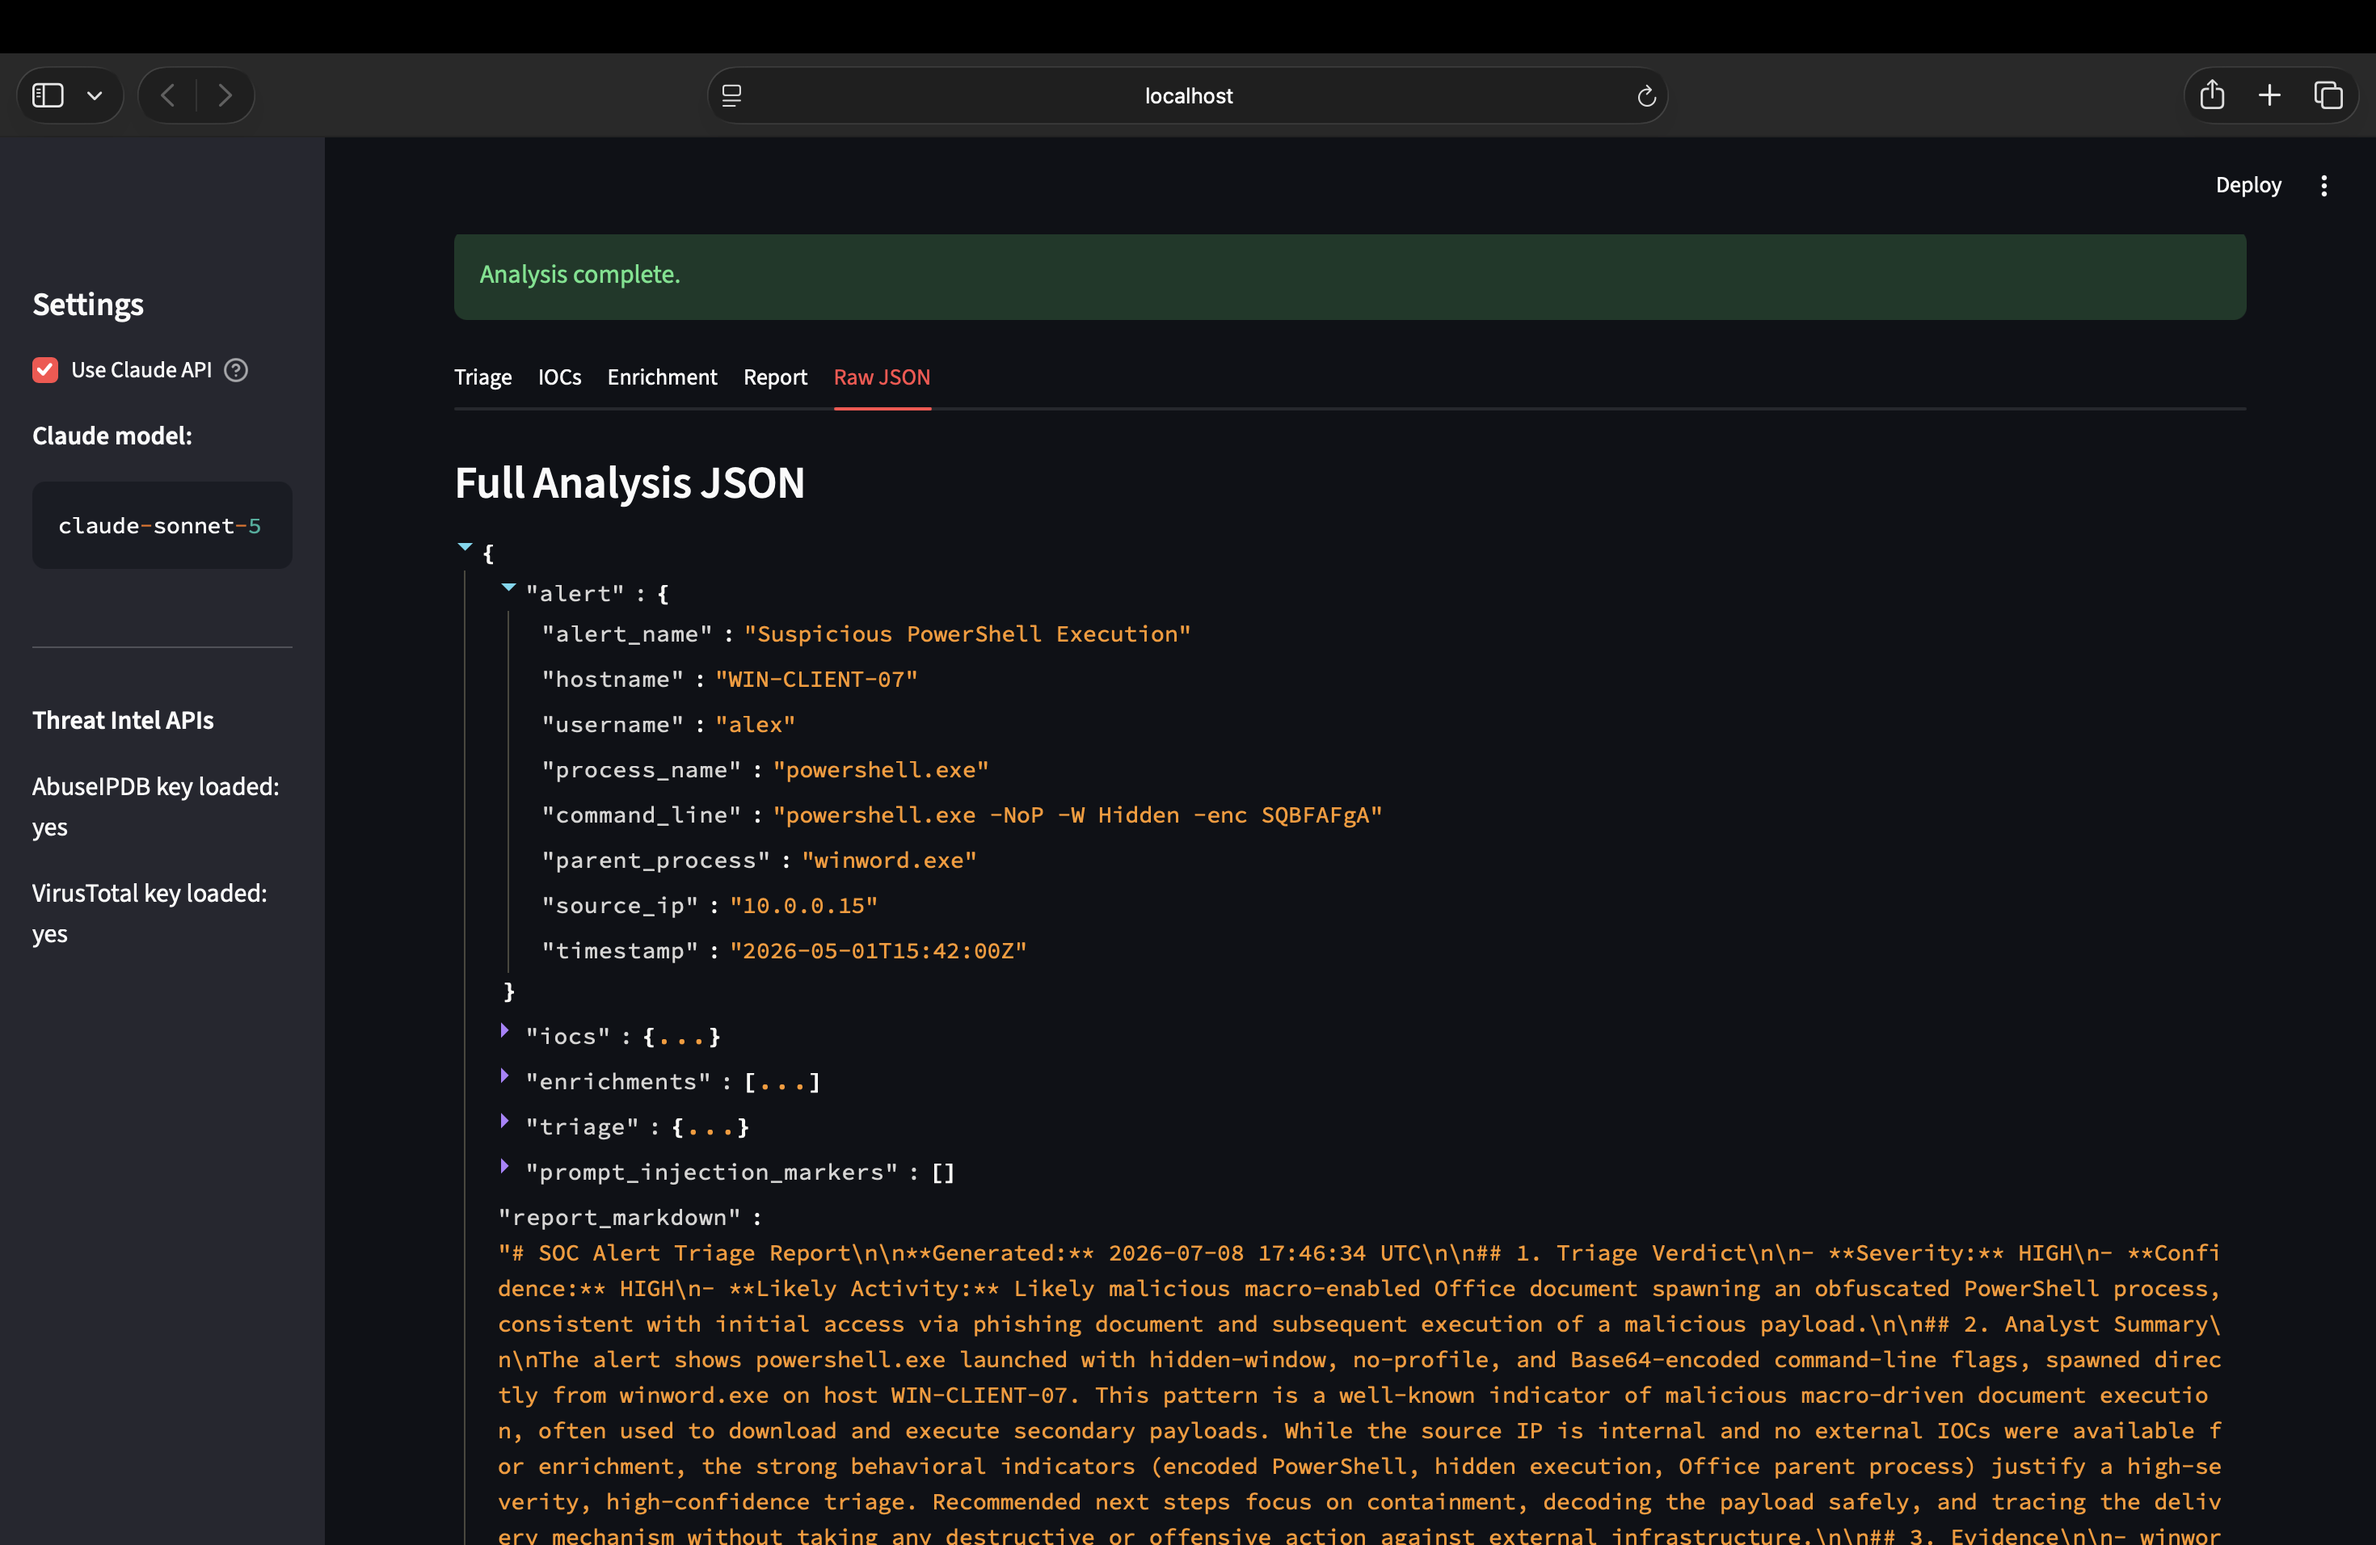
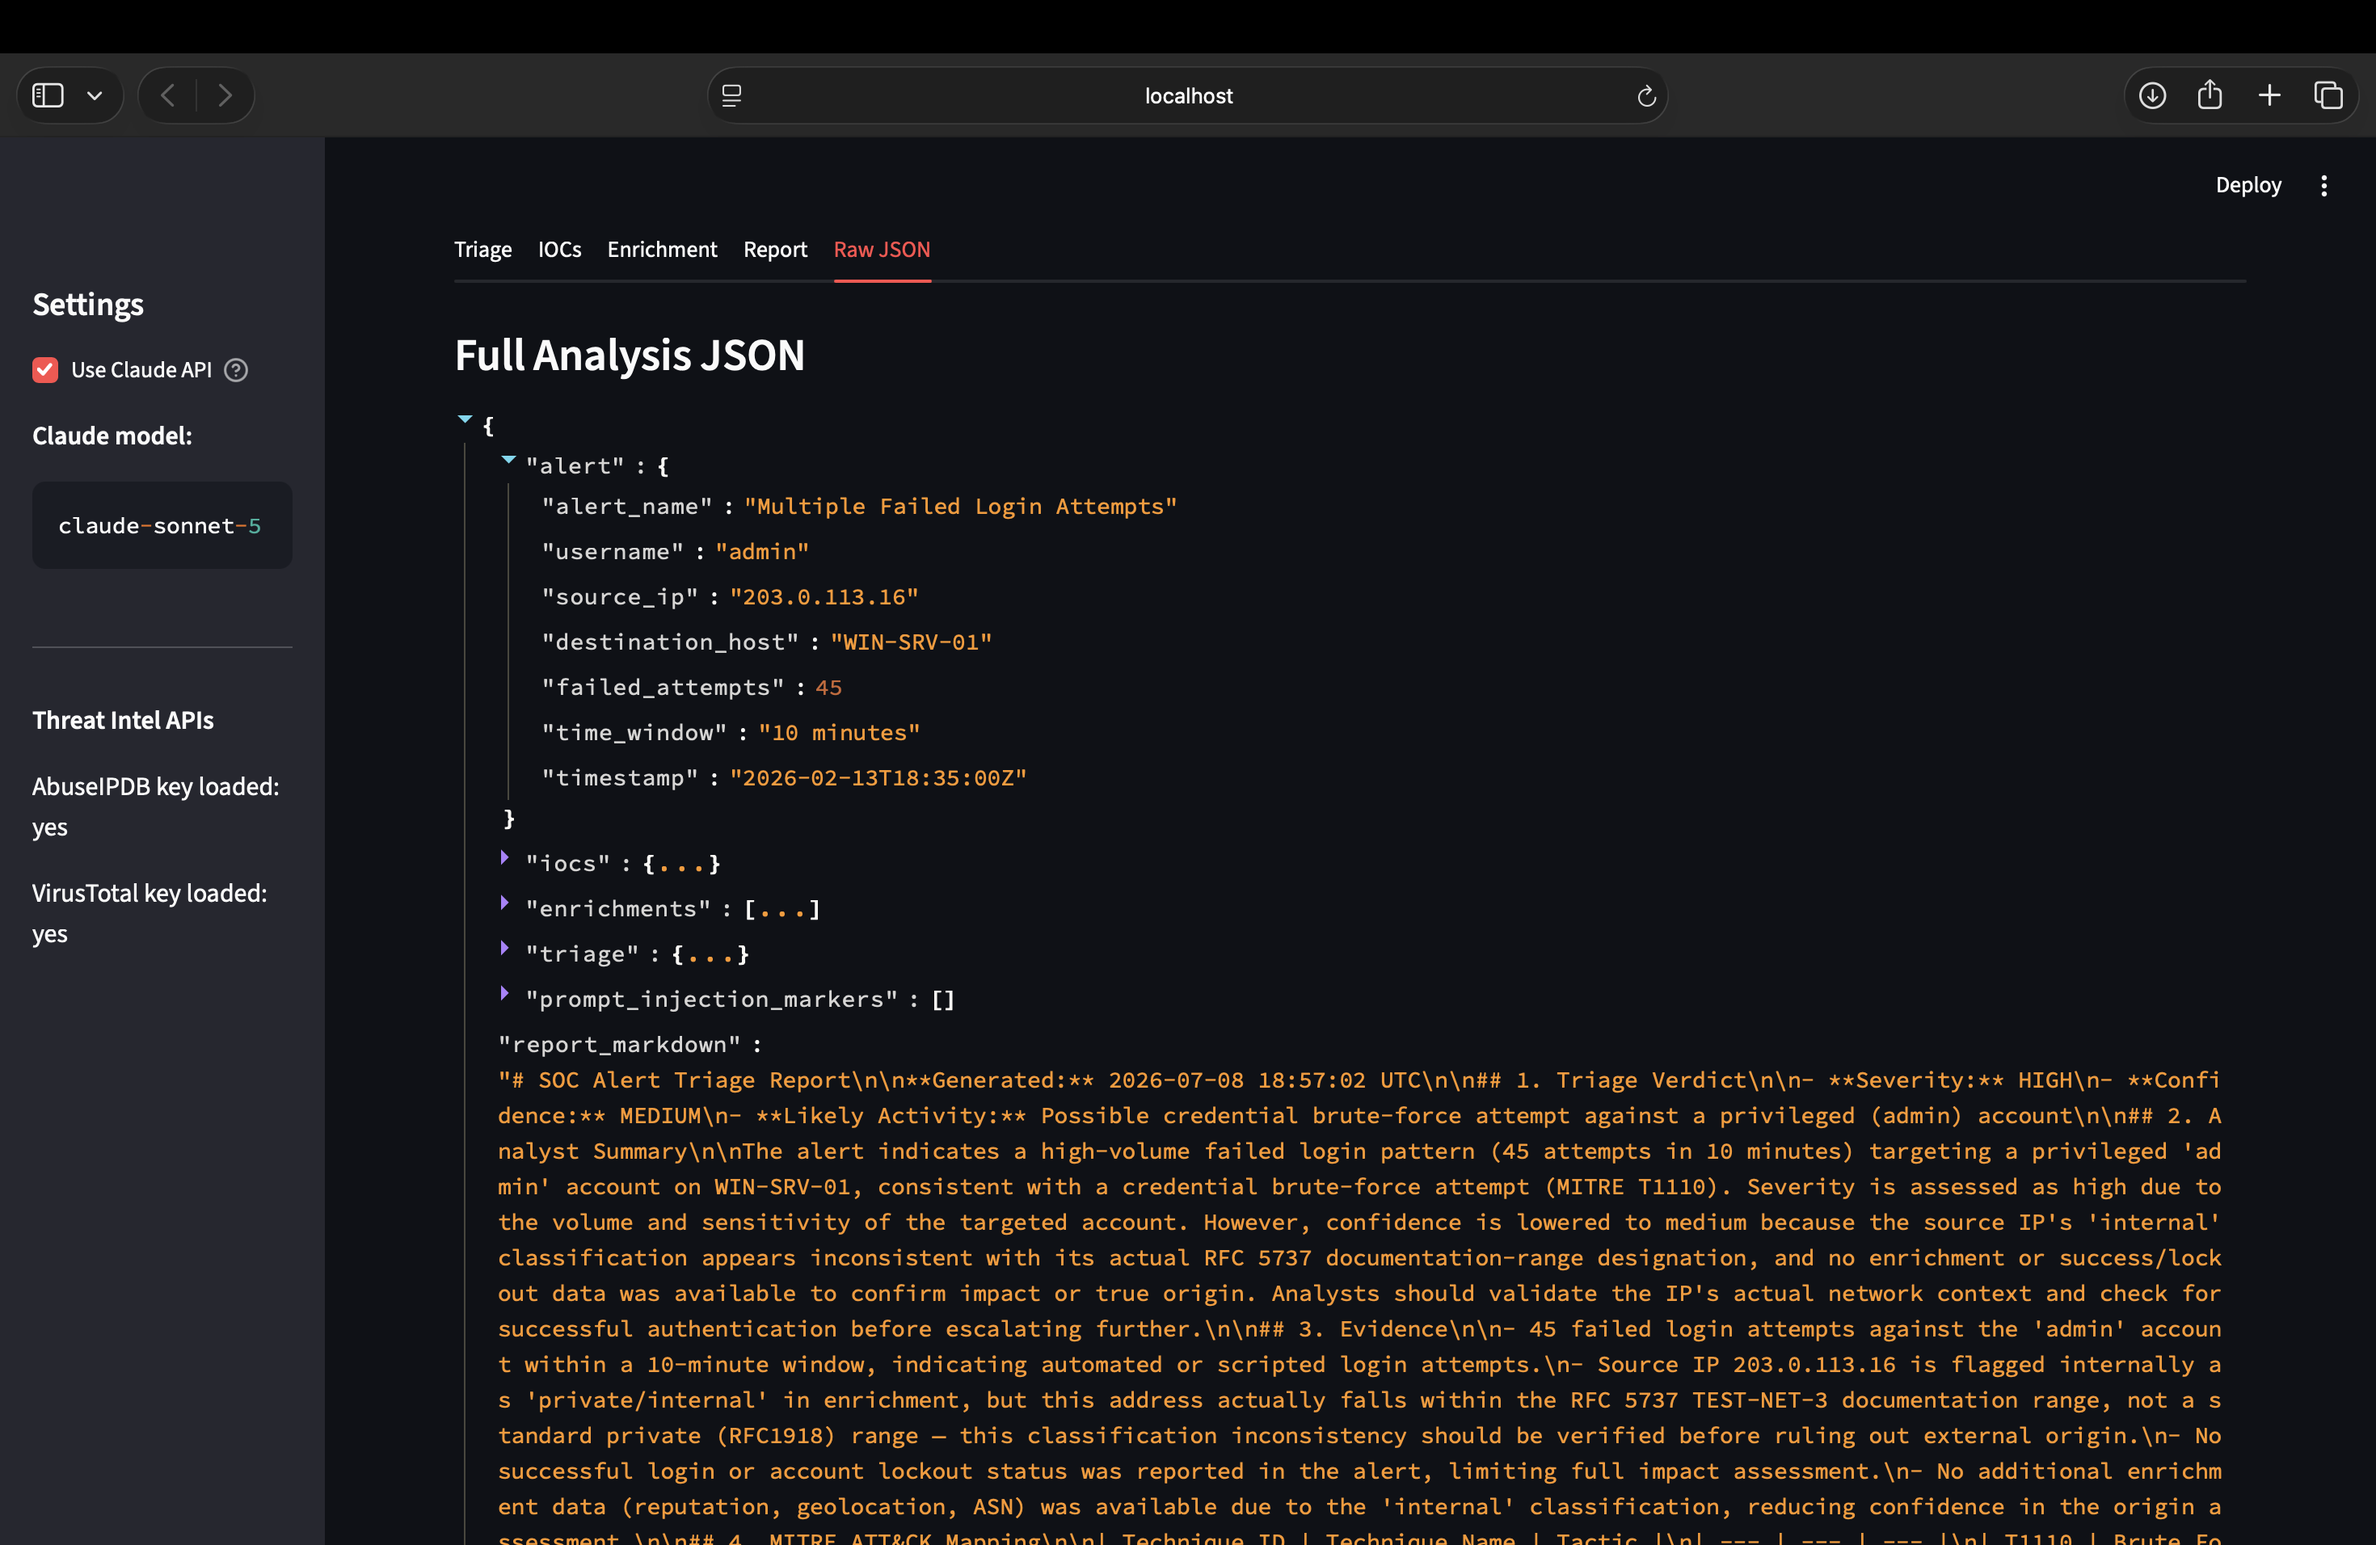
fixes

diff --git a/streamlit_app.py b/streamlit_app.py
@@ -59,11 +59,11 @@ samples = load_sample_alerts()
 default_alert = """{
   "alert_name": "Multiple Failed Login Attempts",
   "username": "admin",
-  "source_ip": "185.220.101.45",
+  "source_ip": "203.0.113.16",
   "destination_host": "WIN-SRV-01",
   "failed_attempts": 45,
   "time_window": "10 minutes",
-  "timestamp": "2026-07-07T18:35:00Z"
+  "timestamp": "2026-02-13T18:35:00Z"
 }
 """
 

diff --git a/README.md b/README.md
@@ -280,8 +280,15 @@ Generated reports include:
 <br>
 
 <p align="center">
-  <img src="scrs/rep.png" width="48%" alt="Generated Report">
-  <img src="scrs/raw.png" width="48%" alt="Raw JSON Output">
+  <img src="scrs/report1.png" width="32%" alt="Generated Report Part 1">
+  <img src="scrs/report2.png" width="32%" alt="Generated Report Part 2">
+  <img src="scrs/report3.png" width="32%" alt="Generated Report Part 3">
+</p>
+
+<br>
+
+<p align="center">
+  <img src="scrs/raw.png" width="70%" alt="Raw JSON Output">
 </p>
 
 ## Future Improvements
